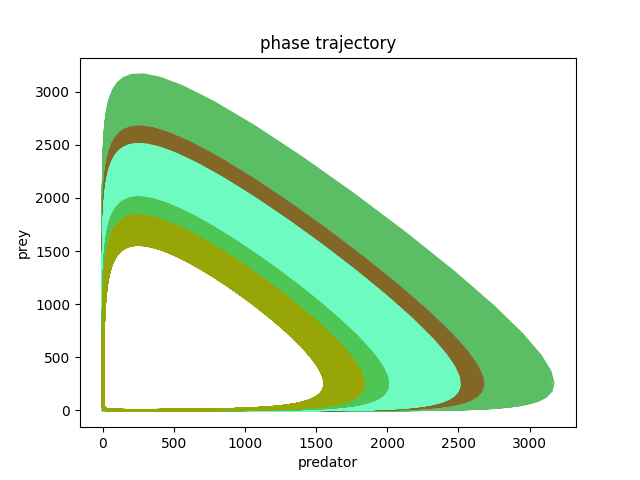
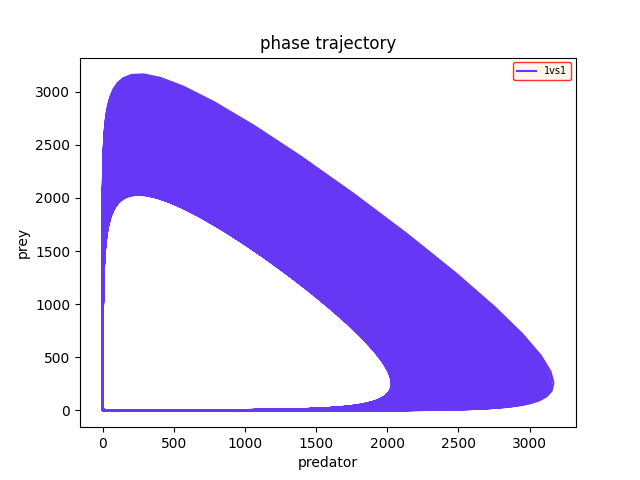
little changes

Changed region(s): [[0.1562, 0.1562, 0.875, 0.875], [0.7812, 0.125, 0.9062, 0.1875]]

diff --git a/task7/task7.py b/task7/task7.py
@@ -44,8 +44,8 @@ def run() -> None:
     N = 100000
     plt.title('phase trajectory')
 
-    for x0 in range(1, 12, 5):
-        for y0 in range(1, 12, 5):
+    for x0 in range(1, 6, 5):
+        for y0 in range(1, 6, 5):
 
             results = runge_kutta(N, x0, y0)
 
